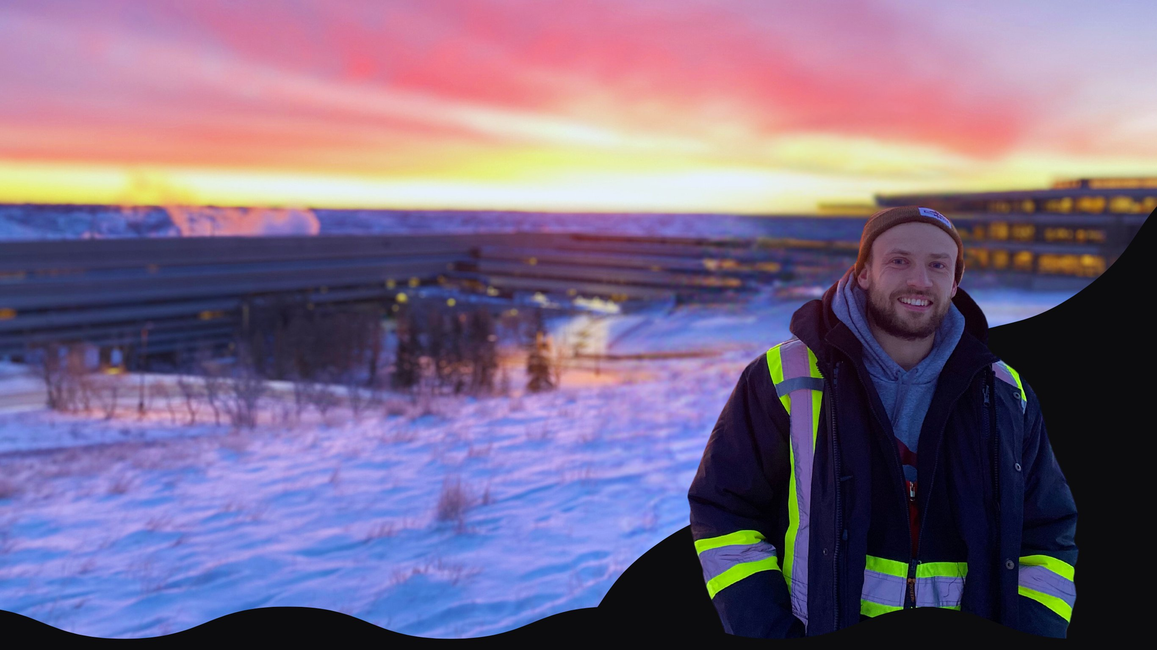
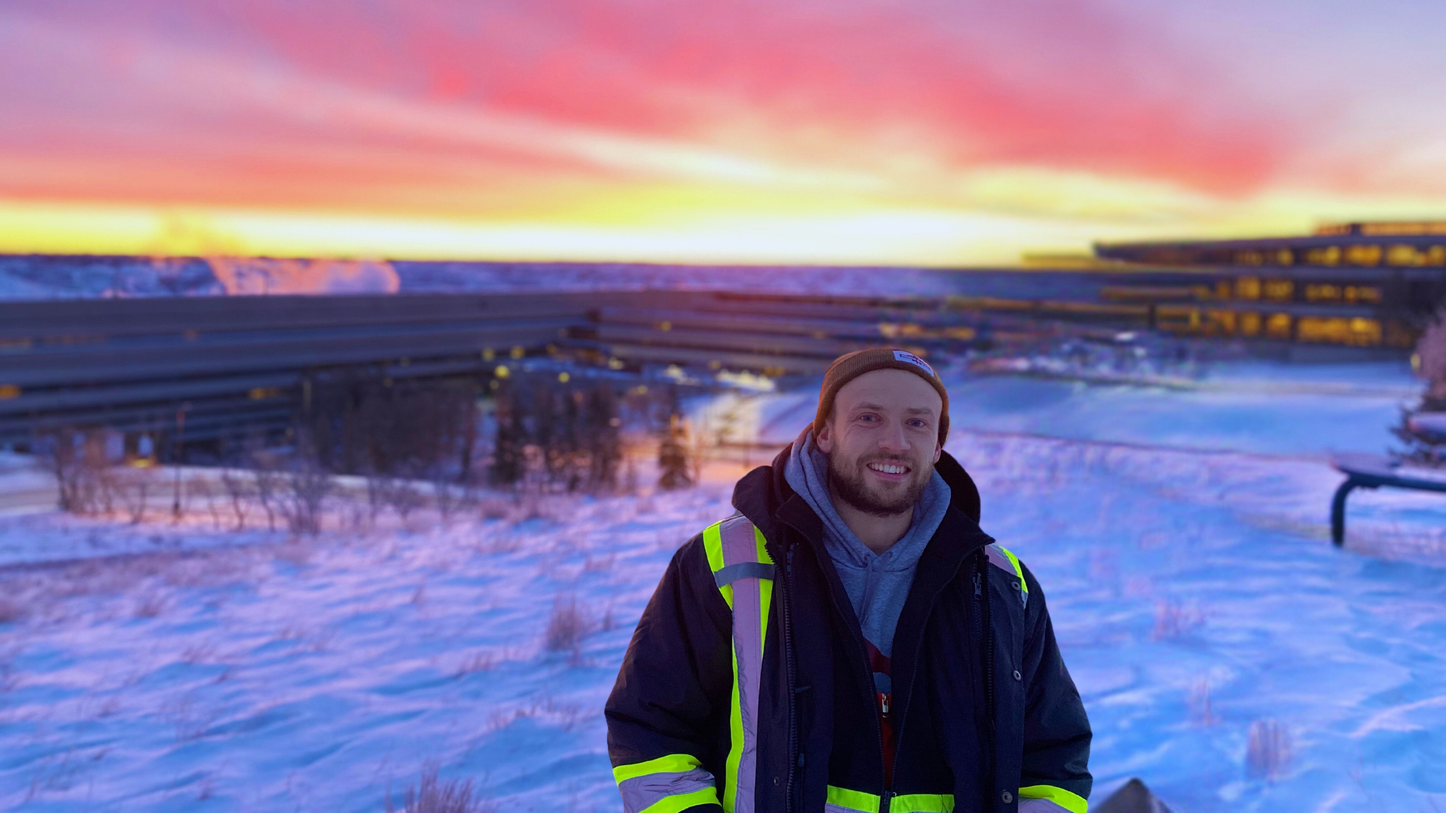
Editing Hero component

Changed region(s): [[0.0, 0.3125, 1.0, 1.0]]

diff --git a/app/components/Hero.tsx b/app/components/Hero.tsx
@@ -16,10 +16,10 @@ export default function Hero() {
   // TypeWriterEffectSmooth
   const firstHeader = [
     {
-      text: 'Hey',
+      text: 'MATTHEW',
     },
     {
-      text: 'there!',
+      text: 'RANFORD',
     },
   ]
 
@@ -45,57 +45,53 @@ export default function Hero() {
 
   return (
     <>
-      <div className="relative h-dvh">
+      <main className="relative h-screen w-screen">
         <Image
           src="/test-hero.jpg"
           width="2732"
           height="1536"
           priority={true}
           alt="Photo of me in Canada with sunset in the background"
-          // className="opacity-90"
+          className="hero-image"
         />
-        <div className={bricolageGrotesque.className}>
-          <section className="absolute inset-0 md:max-w-full mx-6 lg:mx-14 2xl:mx-36 pt-16 lg:pt-0 2xl:pt-56 mt-52 2xl:mt-60">
-            <div className="flex lg:flex-row">
-              <div className="space-y-4 2xl:space-y-6 text-left">
-                <h1>
-                  <TypewriterEffectSmooth words={firstHeader} />
+        <section className="absolute pt-20 sm:pt-32 md:pt-36 lg:pt-24 2xl:pt-40 px-2 md:px-8 2xl:px-10">
+          <div className="space-y-4 2xl:space-y-6 text-left">
+            <h1 className="ps-4 sm:ps-6 lg:ps-8">
+              <TypewriterEffectSmooth words={firstHeader} />
+            </h1>
 
-                  <div className="text-4xl sm:text-5xl lg:text-7xl 2xl:text-9xl pt-2 2xl:pt-6 sm:text-left px-2 font-bold text-yellow-600">
-                    <Highlight>{"I'm Matt."}</Highlight>
-                  </div>
-                </h1>
-                <h2>
-                  <TypewriterEffect words={secondHeader} />
-                </h2>
-                <div>
-                  <TextGenerateEffect words={words} />
-                </div>
-                <div className="text-center lg:text-left mx-0 sm:mx-10">
-                  <div className={anton.className}>
-                    <div className="flex space-x-4 justify-center md:justify-normal sm:space-x-8">
-                      <MovingBorderButton
-                        href="#"
-                        borderRadius="0.5rem"
-                        className="text-lg sm:text-xl text-black relative flex h-[50px] w-40 items-center justify-center overflow-hidden shadow-2xl transition-all before:absolute before:h-0 before:w-0 before:rounded-full before:bg-pink-500 before:duration-1000 before:ease-out hover:from-pink-500 hover:to-fuchsia-800 hover:before:h-56 hover:before:w-56"
-                      >
-                        <span className="relative z-10">My Projects ⬇</span>
-                      </MovingBorderButton>
-                      <MovingBorderButton
-                        href="#"
-                        borderRadius="0.5rem"
-                        className="text-lg sm:text-xl text-black relative flex h-[50px] w-40 items-center justify-center overflow-hidden shadow-2xl transition-all before:absolute before:h-0 before:w-0 before:rounded-full before:bg-fuchsia-800 before:duration-1000 before:ease-out hover:from-pink-500 hover:to-fuchsia-800 hover:before:h-56 hover:before:w-56"
-                      >
-                        <span className="relative z-10">Contact Me ⬇</span>
-                      </MovingBorderButton>
-                    </div>
-                  </div>
+            {/* <div className="text-4xl sm:text-5xl lg:text-7xl 2xl:text-9xl pt-2 2xl:pt-6 sm:text-left px-2 font-bold text-yellow-600">
+              <Highlight>{"I'm Matt."}</Highlight>
+            </div> */}
+            {/* <h2>
+              <TypewriterEffect words={secondHeader} />
+            </h2> */}
+            {/* <div>
+              <TextGenerateEffect words={words} />
+            </div> */}
+            {/* <div className="text-center lg:text-left mx-0 sm:mx-10">
+              <div className={anton.className}>
+                <div className="flex space-x-4 justify-center md:justify-normal sm:space-x-8">
+                  <MovingBorderButton
+                    href="#"
+                    borderRadius="0.5rem"
+                    className="text-lg sm:text-xl text-black relative flex h-[50px] w-40 items-center justify-center overflow-hidden shadow-2xl transition-all before:absolute before:h-0 before:w-0 before:rounded-full before:bg-pink-500 before:duration-1000 before:ease-out hover:from-pink-500 hover:to-fuchsia-800 hover:before:h-56 hover:before:w-56"
+                  >
+                    <span className="relative z-10">My Projects ⬇</span>
+                  </MovingBorderButton>
+                  <MovingBorderButton
+                    href="#"
+                    borderRadius="0.5rem"
+                    className="text-lg sm:text-xl text-black relative flex h-[50px] w-40 items-center justify-center overflow-hidden shadow-2xl transition-all before:absolute before:h-0 before:w-0 before:rounded-full before:bg-fuchsia-800 before:duration-1000 before:ease-out hover:from-pink-500 hover:to-fuchsia-800 hover:before:h-56 hover:before:w-56"
+                  >
+                    <span className="relative z-10">Contact Me ⬇</span>
+                  </MovingBorderButton>
                 </div>
               </div>
-            </div>
-          </section>
-        </div>
-      </div>
+            </div> */}
+          </div>
+        </section>
+      </main>
     </>
   )
 }

diff --git a/components/ui/typewriter-effect.tsx b/components/ui/typewriter-effect.tsx
@@ -125,7 +125,10 @@ export const TypewriterEffectSmooth = ({
               {word.text.map((char, index) => (
                 <span
                   key={`char-${index}`}
-                  // className={cn(`dark:text-white text-black `, word.className)}
+                  className={cn(
+                    `dark:text-stone-900 text-stone-900`,
+                    word.className
+                  )}
                 >
                   {char}
                 </span>
@@ -155,7 +158,7 @@ export const TypewriterEffectSmooth = ({
         }}
       >
         <div
-          className="text-2xl lg:text-5xl 2xl:text-7xl text-white md:text-stone-900"
+          className="text-[2.6rem] sm:text-7xl md:text-8xl lg:text-9xl xl:text-[9.8rem] 2xl:text-[12rem] font-bold tracking-wider"
           style={{
             whiteSpace: 'nowrap',
           }}
@@ -176,10 +179,7 @@ export const TypewriterEffectSmooth = ({
           repeat: Infinity,
           repeatType: 'reverse',
         }}
-        className={cn(
-          'block rounded-sm w-[4px] h-8 lg:h-12 2xl:h-20 bg-blue-500',
-          cursorClassName
-        )}
+        className={cn('', cursorClassName)}
       ></motion.span>
     </div>
   )

diff --git a/app/page.tsx b/app/page.tsx
@@ -7,7 +7,8 @@ export default function page() {
   return (
     <>
       <Navbar />
-      <div className="">
+      {/* Hide bottom scrollbar */}
+      <div className="overflow-hidden">
         <Hero />
         <About />
       </div>

diff --git a/app/globals.css b/app/globals.css
@@ -81,6 +81,13 @@
   }
 }
 
+.hero-image {
+  position: absolute;
+  width: 100%;
+  height: 100%;
+  object-fit: cover;
+}
+
 /* Have NAVBAR sitting on top of hero image */
 .navbar-container {
   position: absolute;
